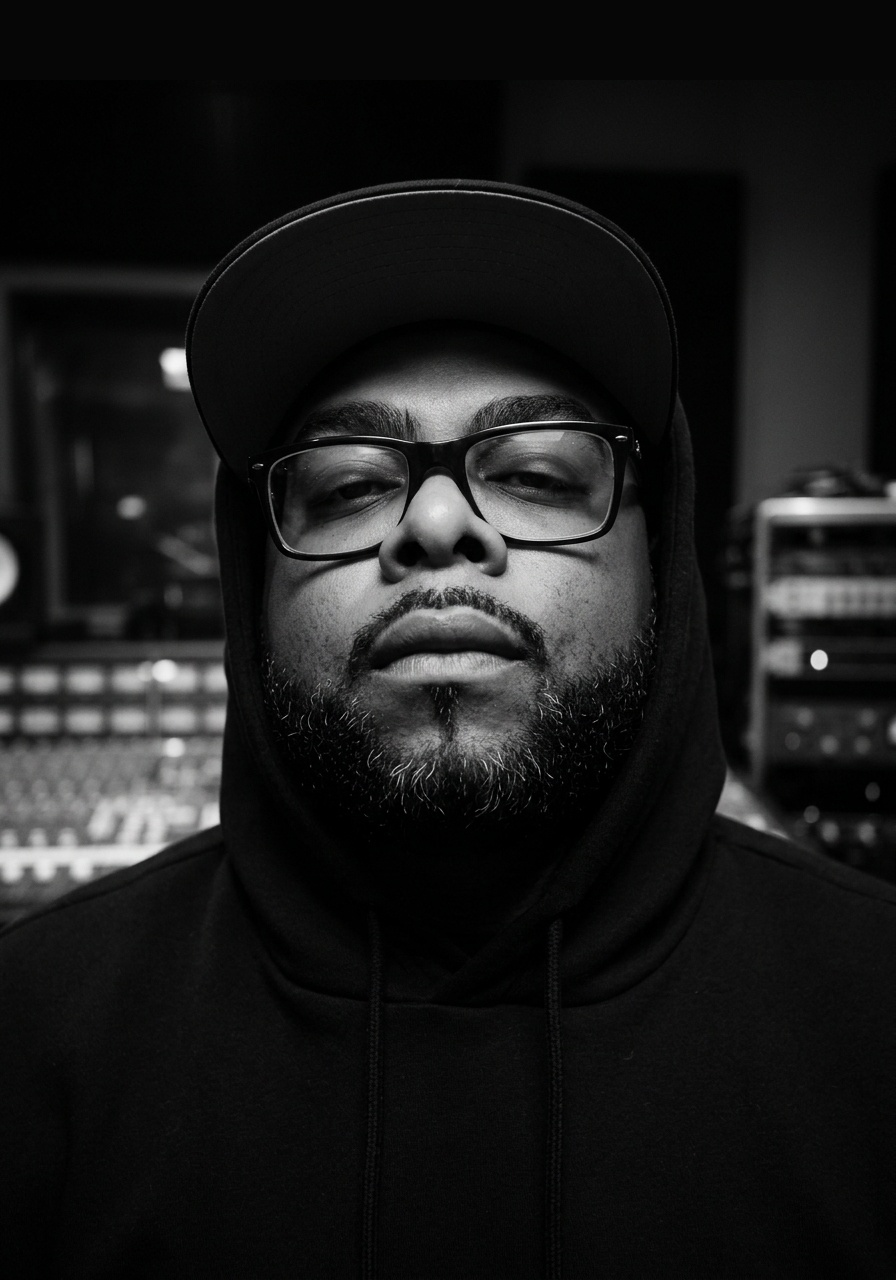
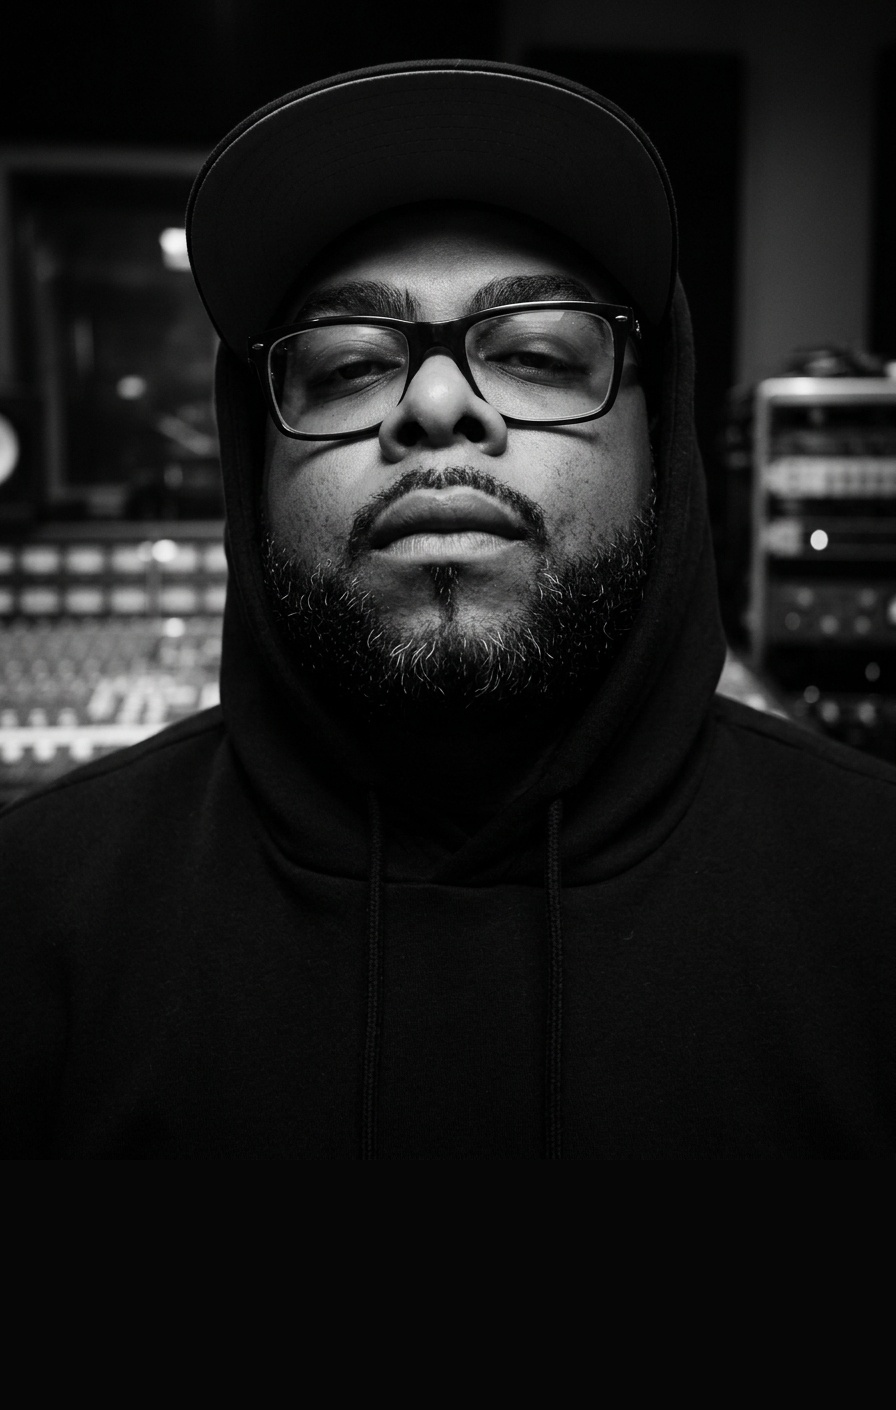
Update vinyl release link to project #21080 and synchronize QuietWave Vol. 1-6 cover art

diff --git a/index.html b/index.html
@@ -56,20 +56,20 @@
   </div>
 </article><article class="group panel overflow-hidden transition-all duration-300 hover:border-accent/50 flex flex-col">
   <div class="relative aspect-square w-full overflow-hidden bg-black/40">
-    <img src="/assets/covers/quietwave-vol-1-vinyl.jpg" alt="QuietWave Vol. 1 (12" Vinyl LP)" loading="lazy" class="h-full w-full object-cover transition-transform duration-500 group-hover:scale-105" />
+    <img src="/assets/covers/quietwave-vol-1-vinyl.jpg" alt="QuietWave Vol. 1–6 (12" Vinyl LP)" loading="lazy" class="h-full w-full object-cover transition-transform duration-500 group-hover:scale-105" />
     <div class="absolute inset-0 bg-gradient-to-t from-card/80 via-transparent to-transparent opacity-60"></div>
     <div class="absolute top-3 left-3"><span class="label-mono px-2 py-0.5 rounded bg-black/75 backdrop-blur-md border border-white/10 text-[10px] text-foreground">Physical Vinyl</span></div>
     <div class="absolute top-3 right-3"><span class="font-mono text-[11px] px-2 py-0.5 rounded bg-black/75 backdrop-blur-md border border-white/10 text-muted-foreground">2026</span></div>
   </div>
   <div class="p-5 flex flex-col flex-1 justify-between">
     <div>
-      <h3 class="font-display text-lg leading-tight transition-colors group-hover:text-accent line-clamp-1">QuietWave Vol. 1 (12" Vinyl LP)</h3>
+      <h3 class="font-display text-lg leading-tight transition-colors group-hover:text-accent line-clamp-1">QuietWave Vol. 1–6 (12" Vinyl LP)</h3>
       <p class="text-xs font-mono text-muted-foreground mt-1 tracking-wider">Northwest / Mason Dixon</p>
-      <p class="text-[11px] font-mono text-muted-foreground/60 mt-1">FRS-QWV1-LP</p>
+      <p class="text-[11px] font-mono text-muted-foreground/60 mt-1">FRS-QWV1-6-LP</p>
     </div>
     <div class="mt-5 pt-3 border-t border-border/60 flex items-center justify-between">
       <span class="text-xs font-mono font-bold text-foreground">$38.90</span>
-      <a href="https://soundcloud.com/pages/vinyl-studio/20678" target="_blank" rel="noopener noreferrer" class="inline-flex items-center text-xs font-mono text-accent hover:text-foreground transition-colors py-1 px-2.5 rounded hover:bg-accent/10">Direct Access &rarr;</a>
+      <a href="https://soundcloud.com/pages/vinyl-studio/21080" target="_blank" rel="noopener noreferrer" class="inline-flex items-center text-xs font-mono text-accent hover:text-foreground transition-colors py-1 px-2.5 rounded hover:bg-accent/10">Direct Access &rarr;</a>
     </div>
   </div>
 </article><article class="group panel overflow-hidden transition-all duration-300 hover:border-accent/50 flex flex-col">
